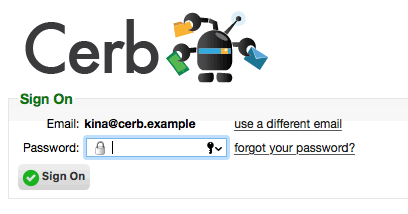
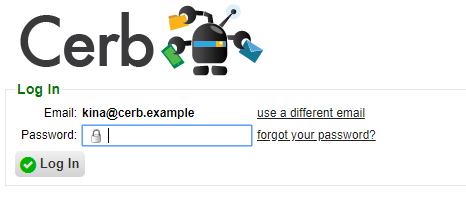
* Updated login_auth.png, changed "sign on" to "log in" in the text, and added a file type (.vs/) to .gitignore

diff --git a/_docs/getting_started/logging-in.md b/_docs/getting_started/logging-in.md
@@ -20,7 +20,7 @@ After clicking **Continue** you'll be shown your personalized authentication for
 <img src="/assets/images/docs/logging-in/login_auth.png" class="screenshot">
 </div>
 
-After entering your credentials, click the **Sign On** button.
+After entering your credentials, click the **Log In** button.
 
 If successful, your new session will begin and you'll be redirected to your profile page.
 
